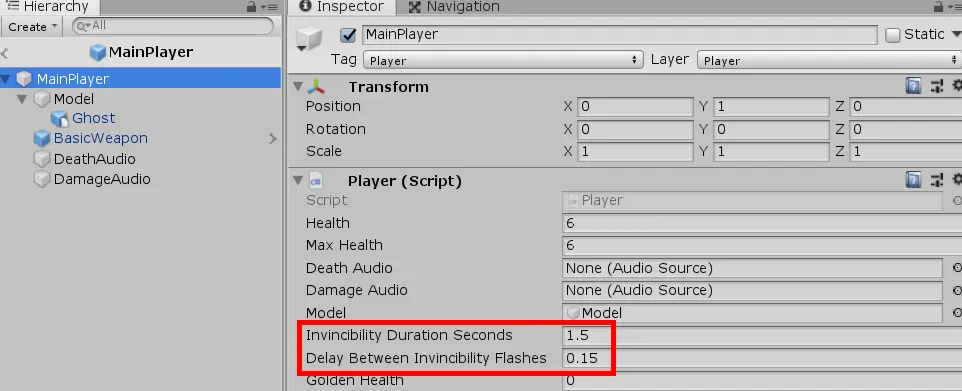
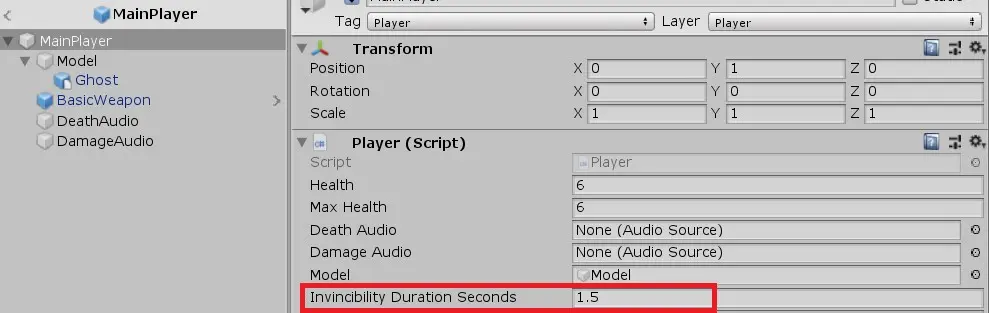
Rewrite invulnerability frames blog post

Changed region(s): [[0.0, 0.0, 1.0, 1.0]]

diff --git a/_posts/dev/2020-01-09-invincibility-frames-in-unity-how-to-make-a-player-flash-when-taking-damage.md b/_posts/dev/2020-01-09-invincibility-frames-in-unity-how-to-make-a-player-flash-when-taking-damage.md
@@ -1,33 +1,44 @@
 ---
-title: "Invincibility Frames in Unity: How to Make a Player Flash When Taking Damage"
-description: "Learn how you can make a player flash when they take damage. This is the notion of invincibility frames, also known as i-frames. You can observe this in many old/retro games, as well as in games like The Binding of Isaac."
+title: "Invulnerability Frames in Unity: How to Make a Player Temporarily Invincible"
+description: "Learn how to implement invincibility frames in Unity using coroutines. This mechanic exists in many games, including The Legend of Zelda, The Binding of Isaac, and Dark Souls."
+keywords: [unity invulnerability frames, unity invincibility frames]
 tags: [dev, game-dev, csharp]
 isCanonical: true
+lastUpdated: 2020-03-25
 ---
 
-In this post, we'll look at how you can make a player flash when they take damage. This is the notion of **invincibility frames**, also known as i-frames. You'll find this in many retro games like The Legend of Zelda, Super Mario, The Binding of Isaac, and others.
+In this post, we'll look at how to implement **invulnerability frames** in Unity (also known as i-frames). You'll find this mechanic in games like Dark Souls, The Legend of Zelda, Super Mario, The Binding of Isaac, and many others.
 
 <figure>
     {% include posts/picture.html img="isaac" ext="GIF" alt="Invincibility frames in the Binding of Isaac" shadow=false %}
     <figcaption><a href="https://braintrash83.tumblr.com/post/93502135046">GIF source</a></figcaption>
 </figure>
 
-To keep this tutorial simple, I'll assume that you already have:
+We'll also make the player flash to signal the start and end of their invulnerability frames. This is optional; in certain games (e.g., Dark Souls), invulnerability frames are an "invisible" mechanic.
 
-1. A way to detect collisions between projectiles/mobs and the player.
-2. A way to hurt the player. Let's call this method `LoseHealth(int amount)`.
+To keep this tutorial simple, I'll assume that you already have a method in place that's going to grant your player temporary invulnerability (e.g., `LoseHealth`, `Roll`, `GainPowerup`, and so on).
 
-If you want to see this demo in action, check out [Embody](https://github.com/cap4053-cheeky-pixels/EmbodyGame), a game I developed with some classmates for the Artificial Intelligence for Games class at the University of Florida.
+If you want to see this mechanic in action, check out [Embody](https://github.com/cap4053-cheeky-pixels/EmbodyGame), a game I developed with some classmates for the Artificial Intelligence for Games class at the University of Florida.
 
-{% include linkedHeading.html heading="How to Make a Player Flash When Taking Damage (with Coroutines!)" level=2 %}
+{% include linkedHeading.html heading="Implementing Invulnerability Frames in Unity (with Coroutines!)" level=2 %}
 
-The naive approach is to run a `for` loop, with an intentional delay between each iteration using deltatime, in your main `Update` loop, and to try to make the player flash in each iteration. But if you do this, you won't actually observe any flashing. Why is that?
+The naive (wrong) approach is to run a `for` loop with an intentional delay between each iteration:
 
-In game development, you have to keep in mind that everything happens within a **frame update**. What this means is that most game engines have an `Update` method that runs the entire game's logic in "ticks." So, if you have a `for` loop inside the update loop, it'll complete all of its iterations in a single frame. Thus, any oscillating UI changes that were intended to be gradual—like the player model flashing—will be (almost) immediate, and therefore imperceptible.
+```csharp
+void BecomeTemporarilyInvincible()
+{
+    for (int i = 0; i < invincibilityDurationSeconds; i += Time.deltaTime)
+    {
+        // do stuff here
+    }
+}
+```
 
-Instead, we want to use [coroutines](https://docs.unity3d.com/Manual/Coroutines.html) to implement invincibility frames in Unity. A coroutine is simply a method that will run in parallel to the main update loop and resume where it left off in the next update.
+If you do this, the player's invulnerability frames will run out almost immediately as soon as they start, no matter how large of a number `invincibilityDurationSeconds` may be. Why is that?
 
-{% include linkedHeading.html heading="Invincibility Frames in Unity" level=3 %}
+In game development, you have to keep in mind that everything happens within a **frame update**. What this means is that most game engines have an `Update` method that runs the entire game's logic in "ticks." So, if you have a `for` loop like the one above, it'll complete all of its iterations in a single frame. Thus, any changes that need to last for a certain period of time—like invulnerability—will complete in a single frame and will therefore be imperceptible.
+
+Instead, we want to use [coroutines](https://docs.unity3d.com/Manual/Coroutines.html) to implement invincibility frames in Unity. A coroutine is simply a method that runs in parallel to the main update loop and resumes where it left off in the next update.
 
 We'll start by adding this method somewhere in our Player script:
 
@@ -35,37 +46,47 @@ We'll start by adding this method somewhere in our Player script:
 {
     // logic goes here
 }{% endcapture %}
-{% include code.html code=code lang="csharp" %}
+{% include code.html file="Player.cs" code=code lang="csharp" %}
 
 Notice that this method returns an `IEnumerator`; all coroutines in Unity do that.
 
-We'll use a flag to keep track of whether the player is invincible. Add this member variable to your script:
+We'll use a private member variable to keep track of whether the player is invincible:
 
 {% capture code %}private bool isInvincible = false;{% endcapture %}
-{% include code.html code=code lang="csharp" %}
+{% include code.html file="Player.cs" code=code lang="csharp" %}
 
-Next, when the player becomes invincible, we flip this flag to true:
+When the player becomes invincible, we flip this flag to true:
 
 {% capture code %}private IEnumerator BecomeTemporarilyInvincible()
 {
     Debug.Log("Player turned invincible!");
     isInvincible = true;
 }{% endcapture %}
-{% include code.html code=code lang="csharp" %}
+{% include code.html file="Player.cs" code=code lang="csharp" %}
 
-Of course, this doesn't do anything (yet!). You're probably wondering:
+Of course, our code doesn't do anything meaningful just yet. You're probably wondering:
 
 1. How do we start the coroutine in the first place?
 2. How do we keep the coroutine running for a set amount of time?
-2. How do we make the player flash while they're invulnerable to damage?
+2. How do we make the player flash while they're invulnerable to damage? (Optional)
 
 All great questions! We'll address each one in turn.
 
-{% include linkedHeading.html heading="1. Losing Health and Becoming Invincible (Starting the Coroutine)" level=2 %}
+{% include linkedHeading.html heading="1. Make the Player Invulnerable (Start the Coroutine)" level=2 %}
 
-Ready for this? It's actually stupidly simple.
+Ready for this? It's actually really simple!
 
-Again, I'll assume that you're using something like `LoseHealth(int amount)`:
+```csharp
+void MethodThatTriggersInvulnerability()
+{
+    if (!isInvincible)
+    {
+        StartCoroutine(BecomeTemporarilyInvincible());
+    }
+}
+```
+
+For example, if players become invulnerable in your game when taking damage, you might do something like this:
 
 {% capture code %}public void LoseHealth(int amount)
 {
@@ -83,77 +104,116 @@ Again, I'll assume that you're using something like `LoseHealth(int amount)`:
 
     StartCoroutine(BecomeTemporarilyInvincible());
 }{% endcapture %}
-{% include code.html code=code lang="csharp" %}
+{% include code.html file="Player.cs" code=code lang="csharp" %}
 
-First, we [fail-fast](https://softwareengineering.stackexchange.com/a/230460/333842) if the player is already invincible. If they're not invincible, the player loses health. If the player died as a result of losing health, we set their health to zero, potentially fire off a death event, and return. Finally, if the player took damage but is still alive, we use `StartCoroutine` to initiate the coroutine that grants the player temporary invincibility.
+We immediately return if the player is already invincible. If they're not invincible, the player loses health. If the player died as a result of losing health, we set their health to zero, potentially fire off a death event, and return. Finally, if the player took damage but is still alive, we use `StartCoroutine` to initiate the coroutine that grants the player temporary invincibility.
 
-> **Tip**: Is your Player script checking for collisions with hostile entities in the world and self-inflicting damage? If so, rethink your approach. Instead, try having your damage sources check for collision with a designated "enemy" layer. This makes your logic much easier to follow.
+If you want to initiate the invulnerability frames some other way, like when the player rolls or picks up a power-up, simply call `StartCoroutine` in that method like I demonstrated above.
 
-{% include linkedHeading.html heading="2. Keep the Coroutine Running for a Set Amount of Time" level=2 %}
+{% include linkedHeading.html heading="2. Remain Invulnerable for a Fixed Period of Time" level=2 %}
 
-Here's what we want:
+Our coroutine looks like this so far:
 
-1. Invincibility should only last for a set period of time.
-2. There should be a fixed delay after each invincibility frame.
+{% capture code %}private IEnumerator BecomeTemporarilyInvincible()
+{
+    Debug.Log("Player turned invincible!");
+    isInvincible = true;
+}{% endcapture %}
+{% include code.html file="Player.cs" code=code lang="csharp" %}
 
-Add these two private members at the top of your script:
+Hmm... We don't want our player to be invulnerable to damage forever—that would be a pretty game-breaking "feature"! Instead, we want invulnerability to last for a fixed number of seconds and then wear off.
+
+First, declare this private member variable at the top of your script:
 
 {% capture code %}[SerializeField]
-private float invincibilityDurationSeconds;
-[SerializeField]
-private float delayBetweenInvincibilityFlashes;{% endcapture %}
-{% include code.html code=code lang="csharp" %}
+private float invincibilityDurationSeconds;{% endcapture %}
+{% include code.html file="Player.cs" code=code lang="csharp" %}
 
-> **Note**: `SerializeField` lets you edit private members through the Unity inspector without having to make them public in your script. This is useful if you want to change those values via the editor as you debug your game.
+Note that `SerializeField` lets you edit private members through the Unity inspector without having to make them public in your script. This is useful if you want to play around with the number while your game is running. That way, you don't have to tweak it in the script and restart your game.
 
-You'll need to initialize these two members via the Inspector pane:
+Before we use this variable, we must initialize it via the inspector pane or in our `Start` method:
 
 {% include posts/picture.html img="inspector" ext="JPG" alt="Initializing serialized fields via the inspector pane in Unity." shadow=false %}
 
-Once you've done that, use them in the coroutine to run a simple loop:
+Then, we can simply use it like so:
 
 {% capture code %}private IEnumerator BecomeTemporarilyInvincible()
 {
     Debug.Log("Player turned invincible!");
     isInvincible = true;
 
-    // Flash on and off for roughly invincibilityDurationSeconds seconds
-    for (float i = 0; i < invincibilityDurationSeconds; i += delayBetweenInvincibilityFlashes)
+    yield return new WaitForSeconds(invincibilityDurationSeconds);
+
+    isInvincible = false;
+    Debug.Log("Player is no longer invincible!");
+}{% endcapture %}
+{% include code.html file="Player.cs" code=code lang="csharp" %}
+
+We pause a coroutine in Unity using `yield return new WaitForSeconds`, passing in the number of seconds to wait. After that time elapses, Unity will resume executing the coroutine, running any code after the `yield` statement. In our case, once execution resumes, the `isInvincible` flag will be set to `false`, and the coroutine will terminate until it's called again sometime in the future. Excellent!
+
+Technically, this is really all that you need to implement invincibility frames in Unity. But what if you want to split the invulnerability across several time segments (simulated frames) so you can run some logic while the player is invincible? Currently, we really only have one invulnerability "frame" that acts as a delay between when we set `isInvincible` to `true` and when we set it to `false`.
+
+If all you want to do is prevent the player from taking damage while they're invulnerable, and you don't want to run any other logic during that invulnerability, you're pretty much done—the next two sections are optional for you.
+
+Otherwise, read on to learn how to create true invulnerability frames in Unity.
+
+{% include linkedHeading.html heading="3. Creating Discrete Invulnerability Frames in Unity" level=2 %}
+
+To create discrete invulnerability frames, we're going to have to modify our coroutine slightly. Instead of yielding once for the entire duration, we're going to need to yield in increments using a loop.
+
+Before we do that, let's add a second member variable at the top of our script:
+
+{% capture code %}[SerializeField]
+private float invincibilityDeltaTime;{% endcapture %}
+{% include code.html file="Player.cs" code=code lang="csharp" %}
+
+Again, go ahead and initialize this new variable via the Unity inspector or in `Start`. I recommend using values of `invincibilityDurationSeconds = 1.5` and `invincibilityDeltaTime = 0.15`, but you can use others, too.
+
+Now, let's rewrite our coroutine to use a loop instead of just yielding once:
+
+{% capture code %}private IEnumerator BecomeTemporarilyInvincible()
+{
+    Debug.Log("Player turned invincible!");
+    isInvincible = true;
+
+    for (float i = 0; i < invincibilityDurationSeconds; i += invincibilityDeltaTime)
     {
-        // TODO: add flashing logic here
-        yield return new WaitForSeconds(delayBetweenInvincibilityFlashes);
+        // TODO: add any logic we want here
+        yield return new WaitForSeconds(invincibilityDeltaTime);
     }
 
     Debug.Log("Player is no longer invincible!");
     isInvincible = false;
 }{% endcapture %}
-{% include code.html code=code lang="csharp" %}
+{% include code.html file="Player.cs" code=code lang="csharp" %}
 
-The key part here is the loop, especially the following line:
+Notice that we're no longer yielding for the entire duration of the invulnerability but instead for whatever time increment we specified:
 
 ```csharp
-yield return new WaitForSeconds(delayBetweenInvincibilityFlashes);
+yield return new WaitForSeconds(invincibilityDeltaTime);
 ```
 
-We pause coroutines in Unity using `WaitForSeconds` and pass in the number of seconds to wait. In this case, that's the delay beween each flash, which you've hopefully set in your inspector by now.
+Essentially, we've broken up the entire invulnerability duration into discrete "frames" using a loop. The total duration still ends up being roughly* `invincibilityDurationSeconds`, assuming you split up the interval evenly.
 
-I find that a duration of `1.5 s` works best, with the delay set to `0.15 s`. This means the loop will run `1.5 / 0.15 = 10` times. Since the player model transitions between two states (visible/invisible) across 10 iterations, you'll observe that there are `10 / 2 = 5` flashes in total:
+> *I say roughly because the actual amount of time waited may not precisely match the amount of time specified. You can read more about this [in the Unity docs on WaitForSeconds](https://docs.unity3d.com/ScriptReference/WaitForSeconds.html).
 
-{% include posts/picture.html img="flashes" ext="JPG" alt="The number of flashes that occur with those settings." %}
+How many frames do we have? With `invincibilityDurationSeconds = 1.5s` and `invincibilityDeltaTime = 0.15s`, this loop will run `1.5s / 0.15s = 10` times. In other words, we get 10 invulnerability frames (i-frames).
 
-Note the `TODO` comment above the yield statement—we have one final step remaining.
+Feel free to play around with these numbers to find the sweet spot for your game. You could even change them programmatically based on the player's current stats (like how i-frames scale with your equipment load in Dark Souls 1-3).
 
-{% include linkedHeading.html heading="3. Make the Player Flash While Invincible" level=2 %}
+Now that we have discrete invulnerability frames instead of just one big "frame" that waits for the full duration in one go, we can throw in whatever logic we want—like making the player model flash!
 
-Invincibility now works—you can verify this with the debug logs. But we'd like to give the player some sort of indication that they're currently invulnerable to damage. Making the player flash is the traditional approach and is a great example of **visual feedback**.
+{% include linkedHeading.html heading="4. Making the Player Flash While Invulnerable" level=2 %}
 
-The easiest way to make a player flash in Unity is to repeatedly scale the player's model (or sprite, for 2D) between `0` and `1` during each iteration of the loop. So first, we need to actually get ahold of the player model. We'll add a member variable for it:
+Making a player flash while they're invulnerable is a classic approach in old/retro games, as well as in games like The Legend of Zelda, Super Mario, The Binding of Isaac, and more. This is a great way to provide **visual feedback** to your user so they know to take advantage of their invincibility.
+
+The easiest way to make a player flash in Unity is to repeatedly scale their model (or sprite, for 2D) between `0` and `1`. First, we need to actually get ahold of the player model:
 
 {% capture code %}[SerializeField]
 private GameObject model;{% endcapture %}
-{% include code.html code=code lang="csharp" %}
+{% include code.html file="Player.cs" code=code lang="csharp" %}
 
-**Note**: For this tutorial to work, the Player should consist of a root object (e.g., `MainPlayer`) that has a Collider and the Player script attached to it. Nested under that object should be the player's model (e.g., `Model`) as a separate object, with whatever shaders, materials, sprites, etc. that you're using (in my case, that's the angry-looking ghost):
+For this tutorial to work, the Player should consist of a root object (e.g., `MainPlayer`) that has a Collider and the Player script attached to it. Nested under that object should be the player's model (e.g., `Model`) as a separate object, with whatever shaders, materials, sprites, etc. that you're using (in my case, that's the angry-looking ghost):
 
 {% include posts/picture.html img="model" ext="JPG" alt="The object hierarchy of the player." shadow=false %}
 
@@ -169,17 +229,16 @@ Next, we'll add a method that lets us easily scale this model:
 {
     model.transform.localScale = scale;
 }{% endcapture %}
-{% include code.html code=code lang="csharp" %}
+{% include code.html file="Player.cs" code=code lang="csharp" %}
 
-And finally, we'll actually do the scaling in our coroutine:
+And finally, we'll actually do the model scaling in our coroutine:
 
 {% capture code %}private IEnumerator BecomeTemporarilyInvincible()
 {
     Debug.Log("Player turned invincible!");
     isInvincible = true;
 
-    // Flash on and off for roughly invincibilityDurationSeconds seconds
-    for (float i = 0; i < invincibilityDurationSeconds; i += delayBetweenInvincibilityFlashes)
+    for (float i = 0; i < invincibilityDurationSeconds; i += invincibilityDeltaTime)
     {
         // Alternate between 0 and 1 scale to simulate flashing
         if (model.transform.localScale == Vector3.one)
@@ -190,24 +249,36 @@ And finally, we'll actually do the scaling in our coroutine:
         {
             ScaleModelTo(Vector3.one);
         }
-        yield return new WaitForSeconds(delayBetweenInvincibilityFlashes);
+        yield return new WaitForSeconds(invincibilityDeltaTime);
     }
 
     Debug.Log("Player is no longer invincible!");
     ScaleModelTo(Vector3.one);
     isInvincible = false;
 }{% endcapture %}
-{% include code.html code=code lang="csharp" %}
+{% include code.html file="Player.cs" code=code lang="csharp" %}
 
-Depending on the numbers you select for `invincibilityDurationSeconds` and `delayBetweenInvincibilityFlashes`, you could end up in a situation where the player's invincibility runs out on the loop iteration where we set its scale to zero. Thus, we forcibly scale the model to one at the very end for safe measure.
+Depending on the numbers you select for `invincibilityDurationSeconds` and `invincibilityDeltaTime`, you could end up in a situation where the player turns invisible on the frame where we set its scale to zero. So, we forcibly scale the model to one at the very end:
 
-And that's it—you're all set to use invincibility frames in your game!
+```csharp
+Debug.Log("Player is no longer invincible!");
+ScaleModelTo(Vector3.one); // here
+isInvincible = false;
+```
+
+How many times will the player model flash? Since it alternates between two visibility states (visible or invisible) across a total of 10 invulnerability frames, there will be `10 / 2 = 5` flashes in total:
+
+{% include posts/picture.html img="flashes" ext="JPG" alt="The number of flashes that occur with those settings." %}
+
+Again, you can tweak the number of frames and flashes by playing around with the numbers.
+
+That's it—you're all set to use invincibility frames in Unity!
 
 {% include linkedHeading.html heading="Can I Use This Approach in Other Game Engines?" level=2 %}
 
 Yes and no.
 
-In game engines like Unreal, there is unfortunately no support for coroutines. As an alternative to this approach, you can keep track of the time that has elapsed since invulnerability was initiated, across multiple `Update` frames, using simple deltatime calculations. (This approach differs from the naive one mentioned in the intro.)
+In game engines like Unreal, there is unfortunately no support for coroutines. As an alternative to this approach, you can keep track of the time that has elapsed since invulnerability was initiated, across multiple `Update` frames, using simple deltatime calculations. (This approach differs from the naive one mentioned in the intro because it doesn't use a loop.)
 
 Godot, on the other hand, [does have them](https://docs.godotengine.org/en/3.1/getting_started/scripting/gdscript/gdscript_basics.html#coroutines-with-yield).
 
